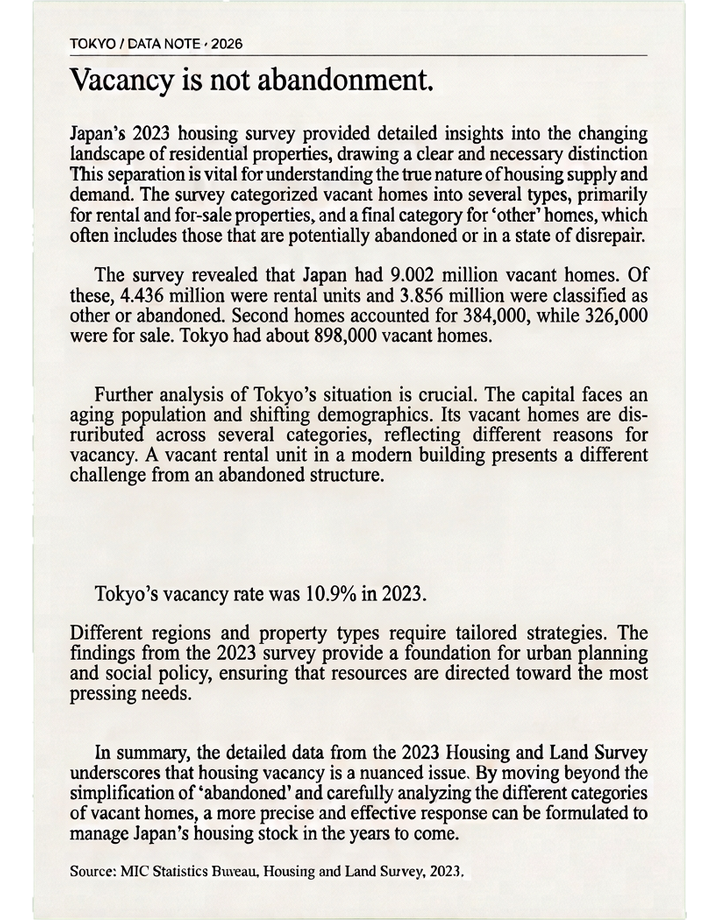
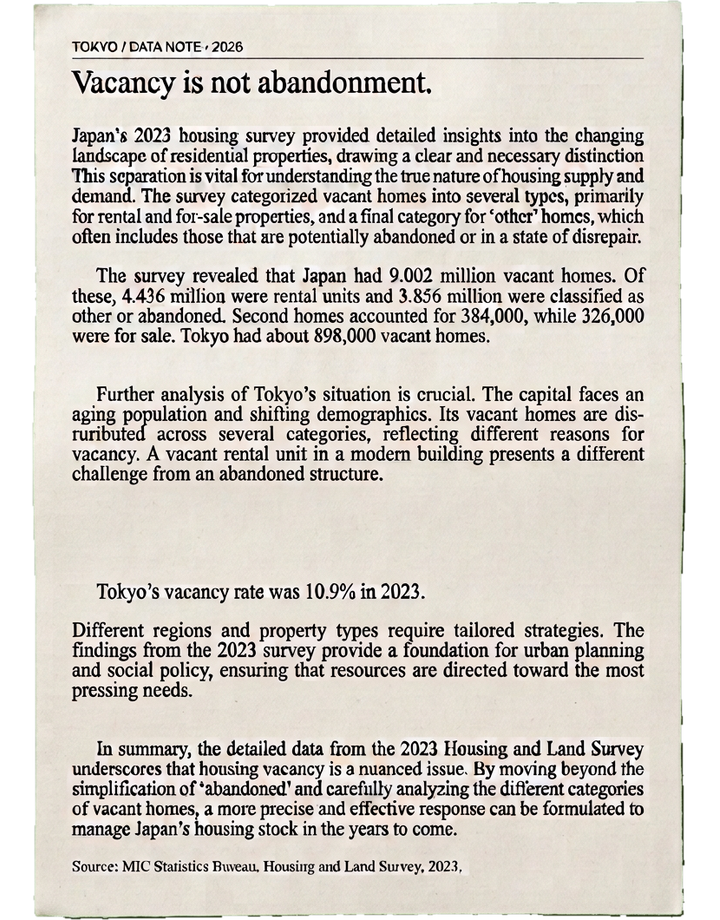
Add physical paper finish and push into shot 8 highlight

diff --git a/src/LabPaperThrow.tsx b/src/LabPaperThrow.tsx
@@ -11,6 +11,10 @@ export const LabPaperThrow: React.FC = () => {
   const second = spring({frame: Math.max(0, frame - 28), fps, config: {damping: 16, stiffness: 78, mass: 0.9}});
   const light = interpolate(frame, [86, 122], [0, 1], {...clamp, easing: Easing.bezier(0.4, 0, 0.2, 1)});
   const sweep = interpolate(frame, [138, 171], [0, 1], {...clamp, easing: Easing.bezier(0.45, 0, 0.2, 1)});
+  const push = interpolate(frame, [82, 132], [0, 1], {...clamp, easing: Easing.bezier(0.4, 0, 0.2, 1)});
+  const zoom = 1 + 0.42 * push;
+  const cameraX = push * (960 - zoom * 1060.5);
+  const cameraY = push * (540 - zoom * 591.5);
 
   const firstTransform = `translate3d(${250 - 950 * (1 - first)}px, ${90 - 800 * (1 - first)}px, 0) rotate(${-7 - 25 * (1 - first)}deg)`;
   const secondTransform = `translate3d(${800 + 900 * (1 - second)}px, ${60 - 850 * (1 - second)}px, 0) rotate(${5 + 25 * (1 - second)}deg)`;
@@ -22,6 +26,7 @@ export const LabPaperThrow: React.FC = () => {
 
   return (
     <AbsoluteFill style={{backgroundColor: '#050505', overflow: 'hidden'}}>
+      <AbsoluteFill style={{transform: `translate3d(${cameraX}px, ${cameraY}px, 0) scale(${zoom})`, transformOrigin: '0 0 0'}}>
       <Img src={staticFile('lab8-desk.webp')} style={{position: 'absolute', width: 1920, height: 1080, filter: `brightness(${1 - 0.28 * light})`}} />
 
       {/* First printed sheet is thrown onto the desk and stays there. */}
@@ -39,6 +44,7 @@ export const LabPaperThrow: React.FC = () => {
           <Img src={staticFile('lab8-highlight-content.png')} style={{...pageStyle, clipPath: highlightClip}} />
         </AbsoluteFill>
       ) : null}
+      </AbsoluteFill>
     </AbsoluteFill>
   );
 };

diff --git a/shot8-licenses.md b/shot8-licenses.md
@@ -10,7 +10,7 @@ No user-supplied reference image, reference pixels or reference-derived image is
 - `lab8-full-paper-a-source.png`: a complete generated printed report, including its chart, dense body text, numerical labels and source line.
 - `lab8-full-paper-b-source.png`: a complete generated printed article, including its dense paragraphs and the selected sentence.
 
-Both sheets are flat rectangles with square corners. Neither has a folded, curled or dog-eared lower corner. The paper, typography, chart and article layout are part of the generated images; they are not programmatically constructed or typeset.
+Both sheets retain intact square corners with no folded, curled or dog-eared lower corner. Subtle paper fibers, slightly uneven physical edges, thin edge shadows and a gentle surface bow give them a more physical photographed-paper appearance. The paper, typography, chart and article layout are part of the generated images; they are not programmatically constructed or typeset.
 
 `scripts/prepare_lab8_generated.py` only cuts the finished sheets out of their chroma backgrounds, scales them without distortion, bakes a soft multiplicative exposure change into the second sheet, and prepares the separate yellow marker effect. It does not draw a paper, chart, paragraph or selected sentence.
 
@@ -40,6 +40,6 @@ The transparent highlight-content asset contains the yellow stroke and the origi
 
 ## Animation scope
 
-A silent 10-second Remotion composition. The first printed sheet is thrown onto the desk; the second then falls over it. Only after both land do the surroundings dim and the baked paper illumination rise. The yellow marker sweeps left-to-right after the illumination and remains for reading. There is no camera shake, tearing, floating data card, platform branding or reference-derived compositing.
+A silent 10-second Remotion composition. The first printed sheet is thrown onto the desk; the second then falls over it. Only after both land do the surroundings dim and the baked paper illumination rise. A smooth 1.42× camera push moves toward the measured highlight location and settles before the yellow marker sweeps left-to-right; the highlight remains for reading. There is no camera shake, tearing, floating data card, platform branding or reference-derived compositing.
 
 The user permits different verified data and different data-graphic elements in future productions.
